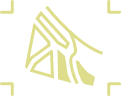
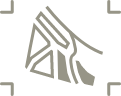
Styling changes

diff --git a/assets/styles/partials/advantages.sass b/assets/styles/partials/advantages.sass
@@ -9,35 +9,32 @@
     @media screen and (max-width: 1279px)
       padding-bottom: 45px
   &__row
-    display: flex
-    align-items: stretch
-    justify-content: flex-start
+    display: grid
+    grid-gap: 32px
+    grid-template-columns: repeat(3, 234px)
     border-bottom: $border
     padding-bottom: 28px
     margin-bottom: 58px
     @media screen and (min-width: 1366px) and (max-width: 1919px)
       padding-bottom: 20px
       margin-bottom: 30px
+      grid-template-columns: repeat(3, 180px)
     @media screen and (min-width: 1280px) and (max-width: 1365px)
       padding-bottom: 15px
       margin-bottom: 20px
+      grid-template-columns: repeat(3, 150px)
     @media screen and (max-width: 1279px)
       padding-bottom: 0
+      grid-template-columns: 1fr
       margin: 0 auto
-      flex-direction: column
-      align-items: center
       border-bottom: unset
     &:last-of-type
       border-bottom: none
       margin-bottom: 0
       padding-bottom: 0
-  &__item
-    width: 33.3%
-    padding-right: 32px
-    @media screen and (max-width: 1279px)
-      width: 100%
-      padding: 0 0 45px
   &__svg
+    width: 100px
+    height: 100px
     margin: 20px
     @media screen and (min-width: 1366px) and (max-width: 1919px)
       margin: 0
@@ -53,11 +50,7 @@
       svg
         margin: 0 auto
   &__name
-    width: 232px
-    @media screen and (min-width: 1280px) and (max-width: 1919px)
-      width: 200px
     @media screen and (max-width: 1279px)
-      width: 100%
       text-align: center
   &__box
     width: 758px

diff --git a/assets/styles/partials/benefit.sass b/assets/styles/partials/benefit.sass
@@ -15,16 +15,16 @@
       grid-template-columns: 1fr
   &__item
     background-color: #fff
-    padding: 40px 68px 76px 95px
+    padding: 40px 68px 34px 95px
     display: flex
     align-items: flex-start
     justify-content: flex-start
     position: relative
     overflow: hidden
     @media screen and (min-width: 1366px) and (max-width: 1919px)
-      padding: 30px 50px 60px 70px
+      padding: 30px 50px 30px 50px
     @media screen and (min-width: 1280px) and (max-width: 1365px)
-      padding: 30px 40px 50px 60px
+      padding: 30px 40px 30px 40px
     @media screen and (max-width: 1279px)
       padding: 30px 20px
     &::before
@@ -32,23 +32,31 @@
       display: block
       min-width: 6px
       height: 39px
-      background-color: $colorMain
+      background-color: $concrete
       margin-right: 32px
       position: relative
       z-index: 1
-      top: 3px
+      top: 8px
       @media screen and (max-width: 1279px)
         margin-right: 16px
   &__info
     width: 500px
     z-index: 1
     color: #fff
+    list-style-type: disc
+    li
+      margin: 0 0 0.4em 1.5em
+      font-size: 16px
+      line-height: 20px
+      &::marker
+        color: $concrete
+        font-size: 1.9em
     @media screen and (max-width: 1919px)
       width: unset
   &__img
     position: absolute
     left: 0
-    width: 100%
+    min-width: 100%
     min-height: 100%
     top: 0
     bottom: 0

diff --git a/assets/styles/partials/indicators.sass b/assets/styles/partials/indicators.sass
@@ -21,28 +21,28 @@
   &__row
     padding-bottom: 28px
     border-bottom: $border
-    display: flex
-    align-items: flex-start
-    justify-content: flex-start
+    display: grid
+    grid-gap: 32px
+    grid-template-columns: repeat(3, 234px)
     margin-bottom: 36px
+    &:last-of-type
+      border-bottom: none
+      margin-bottom: 0
     @media screen and (min-width: 1366px) and (max-width: 1919px)
       padding-bottom: 20px
       margin-bottom: 25px
+      grid-template-columns: repeat(3, 180px)
     @media screen and (min-width: 1280px) and (max-width: 1365px)
+      grid-template-columns: repeat(3, 150px)
       padding-bottom: 15px
       margin-bottom: 20px
     @media screen and (max-width: 1279px)
+      grid-template-columns: 1fr
       padding-bottom: 15px
       margin: 0 auto
-      flex-direction: column
       border-bottom: unset
   &__item
     position: relative
-    margin-right: 100px
-    @media screen and (min-width: 1366px) and (max-width: 1919px)
-      margin-right: 60px
-    @media screen and (min-width: 1280px) and (max-width: 1365px)
-      margin-right: 40px
     @media screen and (max-width: 1279px)
       margin: 0 auto 15px
       display: flex
@@ -86,6 +86,7 @@
       font-size: 20px
       max-width: 26px
   &__name
+    max-width: 234px
     @media screen and (max-width: 1279px)
       text-align: center
       font-size: 16px

diff --git a/assets/styles/partials/infrastructure.sass b/assets/styles/partials/infrastructure.sass
@@ -1,5 +1,7 @@
 .infrastructure
   margin-bottom: 209px
+  @media screen and (max-width: 766px)
+    margin-bottom: 60px
   &__title
     padding-bottom: 70px
     @media screen and (min-width: 1280px) and (max-width: 1919px)
@@ -7,7 +9,7 @@
   &__wrap
     display: grid
     grid-gap: 32px
-    grid-template-columns: repeat(4, 1fr)
+    grid-template-columns: repeat(3, 1fr)
     grid-template-rows: repeat(2, 384px)
     padding-bottom: 110px
     @media screen and (min-width: 1280px) and (max-width: 1919px)
@@ -15,11 +17,11 @@
       padding-bottom: 70px
     @media screen and (min-width: 767px) and (max-width: 1279px)
       grid-template-columns: repeat(2, 1fr)
-      grid-template-rows: repeat(4, 350px)
+      grid-template-rows: repeat(3, 350px)
       padding-bottom: 45px
     @media screen and (max-width: 766px)
       grid-template-columns: 1fr
-      grid-template-rows: repeat(8, 80vw)
+      grid-template-rows: repeat(6, 80vw)
       padding-bottom: 45px
   &__item
     overflow: hidden
@@ -99,7 +101,6 @@
     right: 0
     bottom: 0
     overflow: hidden
-    position: absolute
     display: flex
     flex-direction: column
     align-items: flex-start

diff --git a/assets/styles/partials/types.sass b/assets/styles/partials/types.sass
@@ -60,7 +60,7 @@
     &-desc
       padding-bottom: 32px
       height: calc(7em*1.5 + 32px)
-      border-bottom: 1px solid #90906C
+      border-bottom: 1px solid $concrete
       margin-bottom: 44px
       @media screen and (min-width: 1280px) and (max-width: 1919px)
         padding-bottom: 20px
@@ -92,10 +92,10 @@
       position: absolute
       bottom: 48px
       right: 32px
-      color: $colorMain
+      color: $concrete
       z-index: -1
       opacity: 0
-      box-shadow: 0 0 0 0 $colorMain inset, 0 0 0 2px $colorMain
+      box-shadow: 0 0 0 0 $concrete inset, 0 0 0 2px $concrete
       @media screen and (min-width: 1366px) and (max-width: 1919px)
         bottom: 40px
       @media screen and (min-width: 1280px) and (max-width: 1365px)
@@ -106,5 +106,5 @@
         z-index: 1
         opacity: 1
       &:hover
-        box-shadow: 0 0 40px 40px $colorMain inset, 0 0 0 0
+        box-shadow: 0 0 40px 40px $concrete inset, 0 0 0 0
         color: #000

diff --git a/assets/styles/partials/header.sass b/assets/styles/partials/header.sass
@@ -7,6 +7,11 @@
     right: 0
     z-index: 1
     background-color: transparent
+    .header__callback
+      color: $colorRed
+      box-shadow: 0 0 0 0 $colorRed inset, 0 0 0 2px $colorRed
+      &:hover
+        box-shadow: 0 0 40px 40px $concrete inset, 0 0 0 0
   &__wrap
     padding: 80px 0
     display: flex
@@ -89,13 +94,13 @@
   &__callback
     color: $colorMain
     margin-left: 63px
-    box-shadow: 0 0 0 0 $colorMain inset, 0 0 0 2px $colorMain
+    box-shadow: 0 0 0 0 $concrete inset, 0 0 0 2px $concrete
     @media screen and (min-width: 1280px) and (max-width: 1365px)
       margin-left: 50px
     @media screen and (max-width: 1279px)
       margin-left: initial
     &:hover
-      box-shadow: 0 0 40px 40px $colorMain inset, 0 0 0 0
+      box-shadow: 0 0 40px 40px $concrete inset, 0 0 0 0
       color: #000
   &__submenu
     position: absolute

diff --git a/assets/styles/partials/footer.sass b/assets/styles/partials/footer.sass
@@ -57,8 +57,8 @@
     & .label_filled
       font-size: 12px
     &-submit
-      color: $colorMain
-      box-shadow: 0 0 0 0 $colorMain inset, 0 0 0 2px $colorMain
+      color: $colorRed
+      box-shadow: 0 0 0 0 $colorRed inset, 0 0 0 2px $colorRed
       margin: 0 85px 0 63px
       @media screen and (min-width: 1280px) and (max-width: 1919px)
         margin: 0 50px
@@ -66,7 +66,7 @@
         margin: 0 0 30px
       border: none
       &:hover
-        box-shadow: 0 0 40px 40px $colorMain inset, 0 0 0 0
+        box-shadow: 0 0 40px 40px $concrete inset, 0 0 0 0
         color: #000
     &-policy
       max-width: 309px

diff --git a/assets/styles/partials/price-block.sass b/assets/styles/partials/price-block.sass
@@ -69,12 +69,12 @@
       text-transform: uppercase
       padding-bottom: 27px
     &-link
-      color: $colorMain
-      box-shadow: 0 0 0 0 $colorMain inset, 0 0 0 2px $colorMain
+      color: $concrete
+      box-shadow: 0 0 0 0 $concrete inset, 0 0 0 2px $concrete
       margin: 0 auto
       opacity: 0
       @media screen and (max-width: 1279px)
         opacity: 1
       &:hover
-        box-shadow: 0 0 40px 40px $colorMain inset, 0 0 0 0
+        box-shadow: 0 0 40px 40px $concrete inset, 0 0 0 0
         color: #000

diff --git a/assets/styles/partials/faq.sass b/assets/styles/partials/faq.sass
@@ -66,7 +66,7 @@
       min-width: 44px
       height: 44px
       margin-right: 61px
-      border: 2px solid #90906C
+      border: 2px solid #707070
       border-radius: 50%
       overflow: hidden
       display: flex

diff --git a/assets/styles/common/variables.sass b/assets/styles/common/variables.sass
@@ -4,3 +4,4 @@ $colorRed: #E22A1B
 $borderColor: #90906C
 $border: 1px solid $borderColor
 $colorDark: #2C3338
+$concrete: #979587
